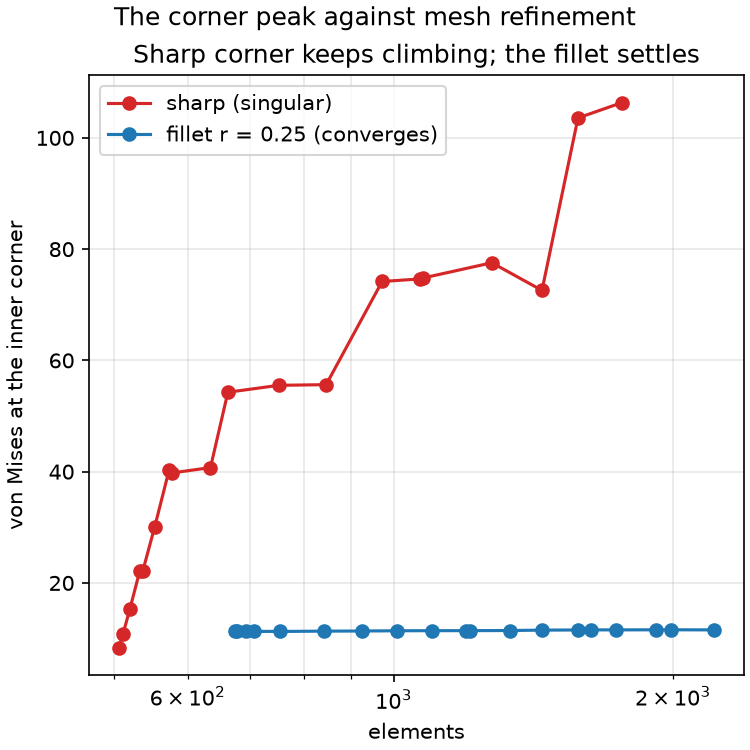
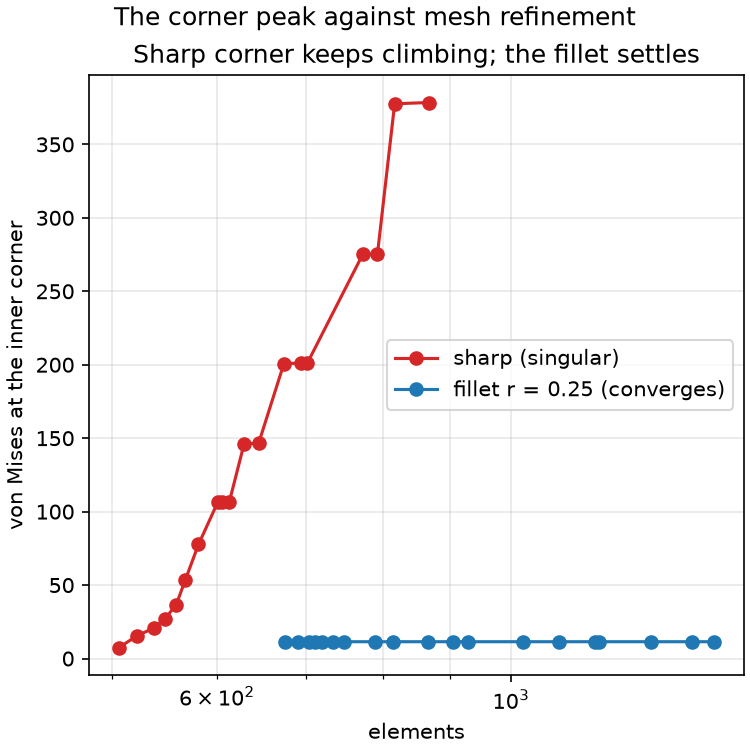
Solve the L-bracket demo on P2 elements
Upgrade demo_bracket to quadratic elements: the sharp corner on the straight
QuadraticTriangleElement, the fillet on IsoparametricTriangleElement so the arc
is a true circle through refinement rather than a polygon. Refinement is driven by
the recovery estimator (curved-correct, where the residual estimator is not), and
the corner peak is read from the recovered nodal von Mises (recover-then-reduce).
The field panels render the smooth P2 stress on the tessellation, warped by the
nodal displacement.

The narrative is unchanged and sharper: the sharp corner's peak climbs without
bound (to ~380 here) while the fillet settles (~11), a 97% reduction. README text
is physics-level and needs no change; both bracket figures are regenerated.

diff --git a/examples/solver_demos.py b/examples/solver_demos.py
@@ -20,7 +20,7 @@ from fem.convergence import (
     poisson_p2_convergence, solve_annulus_mms, solve_load_comparison, theta_convergence,
 )
 from fem.elements import IsoparametricTriangleElement, QuadraticTriangleElement
-from fem.estimators import residual_estimator
+from fem.estimators import recovery_estimator, residual_estimator
 from fem.forms import MaskedMassForm
 from fem.space import FunctionSpace
 from fem.regions import everywhere, on_plane, in_box, intersect, union
@@ -659,7 +659,12 @@ def demo_bracket(arm=4.0, width=1.2, fillet_radius=0.25, traction=0.4, E=300.0, 
     """Load an L-bracket and read the stress at its inner corner: a sharp re-entrant
     corner is a stress singularity whose peak climbs without bound as the mesh refines,
     while a fillet gives a finite, converged value. This is why real parts round their
-    inner corners."""
+    inner corners.
+
+    Solved on quadratic (P2) elements: the sharp bracket on straight `QuadraticTriangleElement`,
+    the filleted one on `IsoparametricTriangleElement` so the arc is a true circle rather than
+    a polygon. The recovery estimator drives refinement (it reads the curved fillet's flux
+    correctly), and the peak is read from the recovered nodal von Mises."""
     # The re-entrant corner is where the two limbs meet. There the exact elastic stress
     # is genuinely infinite (it grows like r^(-0.46) into the corner), so no mesh
     # resolves it: refine and the computed peak just keeps climbing. Rounding the corner
@@ -675,42 +680,47 @@ def demo_bracket(arm=4.0, width=1.2, fillet_radius=0.25, traction=0.4, E=300.0, 
         bc.add(BCType.NEUMANN, on_plane(0, arm), [0, -traction])  # pull the horizontal tip down
         return bc
 
-    def corner_peak(mesh, von_mises):
+    def corner_peak(solution):
         # The von Mises peak near the inner corner alone, kept clear of the clamp's own
-        # concentration at the far top so the comparison is about the corner.
-        centroids = mesh.vertices[mesh.elements].mean(axis=1)
-        near = np.linalg.norm(centroids - corner, axis=1) < 0.8 * width
-        return float(von_mises[near].max())
+        # concentration at the far top so the comparison is about the corner. Read from the
+        # recovered nodal field (recover-then-reduce), the smooth P2 stress at the nodes.
+        space = solution.space
+        nodal_vm = solution.nodal_von_mises()
+        near = np.linalg.norm(space.node_coords - corner, axis=1) < 0.8 * width
+        return float(nodal_vm[near].max())
 
-    def refine_and_track(fillet):
+    def refine_and_track(fillet, element_type):
         """Adaptively refine one bracket, recording the corner peak each round.
 
         The refinement loop is `AdaptiveRefinement`'s, unrolled here so the corner peak
         can be read off every intermediate mesh rather than only the last: the sequence
-        of peaks is the point, not just the final field.
+        of peaks is the point, not just the final field. `element_type` is the straight
+        quadratic triangle for the sharp corner and the isoparametric one for the fillet,
+        so the arc stays a true circle through refinement.
         """
         pslg = l_bracket_pslg(arm, width, fillet_radius=fillet, n_fillet=20)
         pslg.validate()
         mesh = RuppertsAlgorithm(pslg, min_angle=min_angle,
                                  max_area=max_area_fraction * pslg.area()).refine()
-        solver = Solver(mesh, equation, make_bc())
+        solver = Solver(mesh, equation, make_bc(), element_type=element_type)
         refiner = RedGreenRefiner(solver.mesh)
-        estimator = residual_estimator(equation)
+        estimator = recovery_estimator(equation)
         solution = solver.solve()
         sizes, peaks = [], []
         for _ in range(n_rounds):
             sizes.append(len(solver.mesh.elements))
-            peaks.append(corner_peak(solver.mesh, solution.von_mises))
+            peaks.append(corner_peak(solution))
             residuals = estimator.estimate(solver)
             refine_idxs = np.flatnonzero(residuals >= refine_fraction * residuals.max())
             solver.remesh(refiner.refine([int(i) for i in refine_idxs]))
             solution = solver.solve()
         sizes.append(len(solver.mesh.elements))
-        peaks.append(corner_peak(solver.mesh, solution.von_mises))
+        peaks.append(corner_peak(solution))
         return solver.mesh, solution, np.array(sizes), np.array(peaks)
 
-    sharp_mesh, sharp, sharp_sizes, sharp_peaks = refine_and_track(0.0)
-    round_mesh, rounded, round_sizes, round_peaks = refine_and_track(fillet_radius)
+    sharp_mesh, sharp, sharp_sizes, sharp_peaks = refine_and_track(0.0, QuadraticTriangleElement)
+    round_mesh, rounded, round_sizes, round_peaks = refine_and_track(
+        fillet_radius, IsoparametricTriangleElement)
 
     conditions = Plotter(panel_aspect=1.0)
     conditions.plot(sharp_mesh, mode='bc', bc=make_bc())
@@ -722,13 +732,16 @@ def demo_bracket(arm=4.0, width=1.2, fillet_radius=0.25, traction=0.4, E=300.0, 
     for i, (name, mesh, solution, peaks) in enumerate((
             ('Sharp corner', sharp_mesh, sharp, sharp_peaks),
             (f'Fillet r = {fillet_radius:g}', round_mesh, rounded, round_peaks))):
-        deformed = solution.deformed_mesh()
-        fields.plot(deformed, solution.von_mises, mode='colored', idx=(0, i),
-                    label='von Mises stress',
+        # P2-aware render: the recovered nodal von Mises drawn on the element tessellation,
+        # warped by the nodal displacement so the quadratic field shows on the deformed shape.
+        warp = solution.u.reshape(-1, 2)
+        fields.plot(mesh, solution.nodal_von_mises(), mode='colored', idx=(0, i),
+                    space=solution.space, warp=warp, label='von Mises stress',
                     title=f'{name}\n{len(mesh.elements)} elements, corner peak {peaks[-1]:.0f}')
         # Clamp and tip-load glyphs read off the undeformed mesh, drawn at the deformed
-        # positions so the load follows the tip it pulls on.
-        fields.overlay_supports(mesh, make_bc(), idx=(0, i), coords=deformed.vertices)
+        # vertex positions so the load follows the tip it pulls on.
+        deformed_vertices = mesh.vertices + warp[:len(mesh.vertices)]
+        fields.overlay_supports(mesh, make_bc(), idx=(0, i), coords=deformed_vertices)
 
     sweep = Plotter(1, 1, title='The corner peak against mesh refinement')
     ax = sweep.chart_ax(xlabel='elements', ylabel='von Mises at the inner corner')
